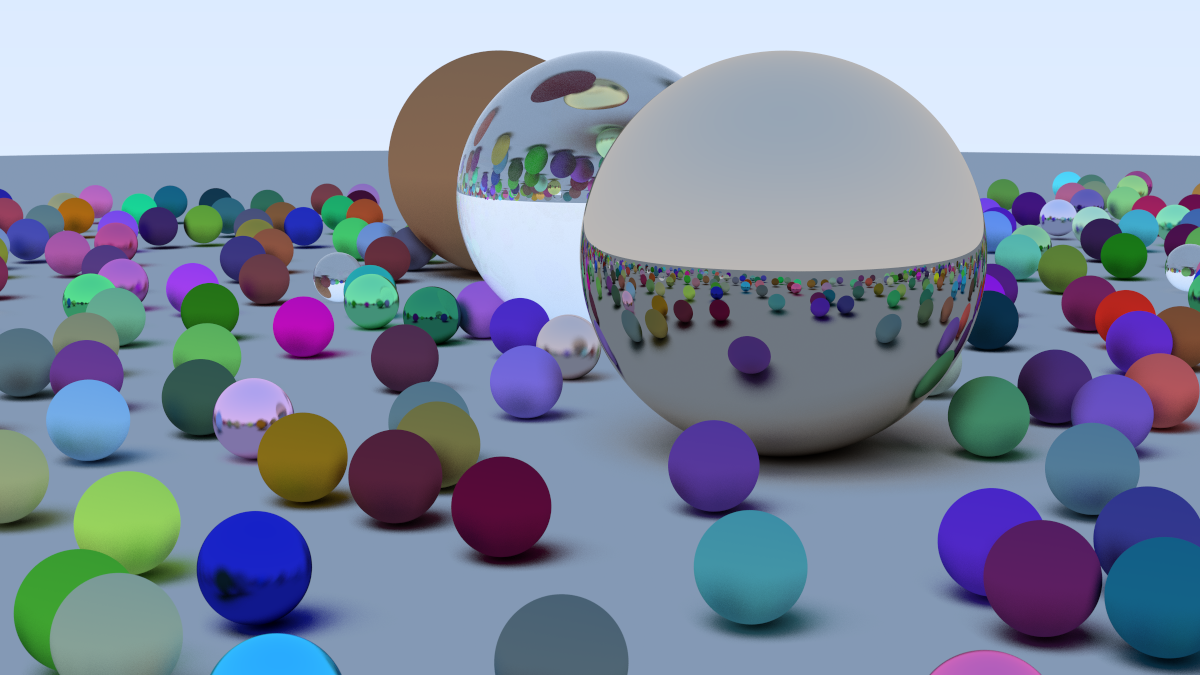
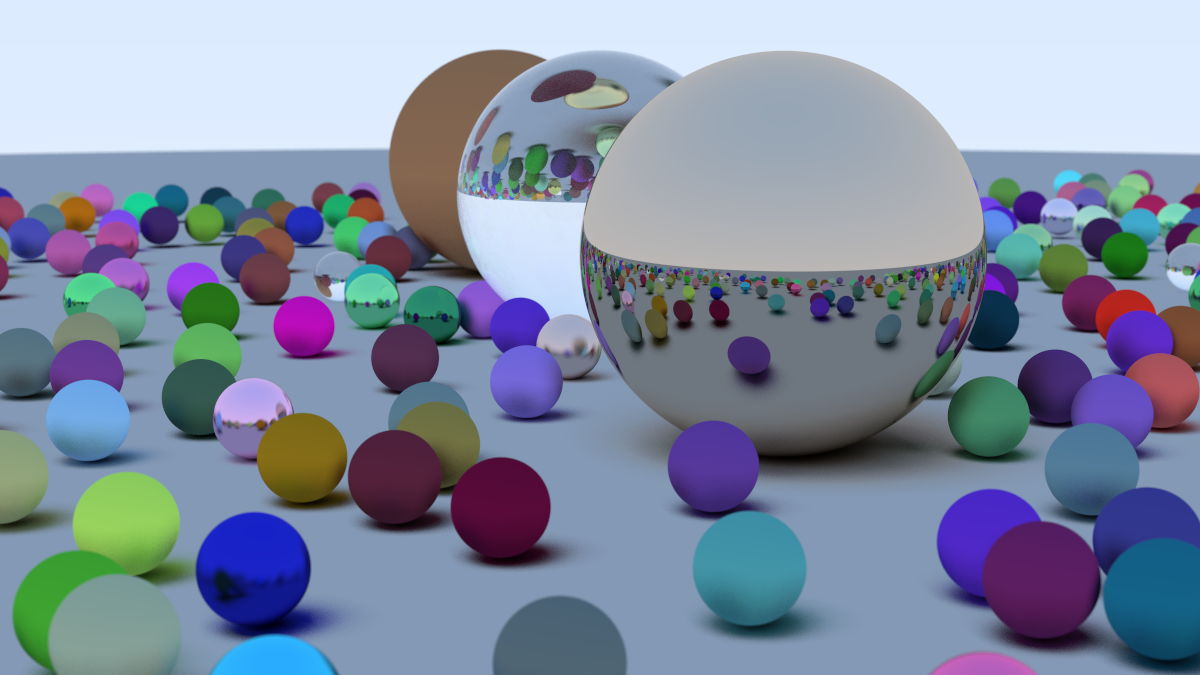
Rerendered sphere scene

diff --git a/src/main.cpp b/src/main.cpp
@@ -65,7 +65,7 @@ int main() {
 	camera.lookAt = Point3(0.0f, 0.0f, 0.0f);
 	camera.viewUp = Vec3(0.0f, 1.0f, 0.0f);
 
-	camera.defocusAngle = 0.1f;
+	camera.defocusAngle = 0.6f;
 	camera.focusDist = 10.0f;
 
 	camera.render(world);
